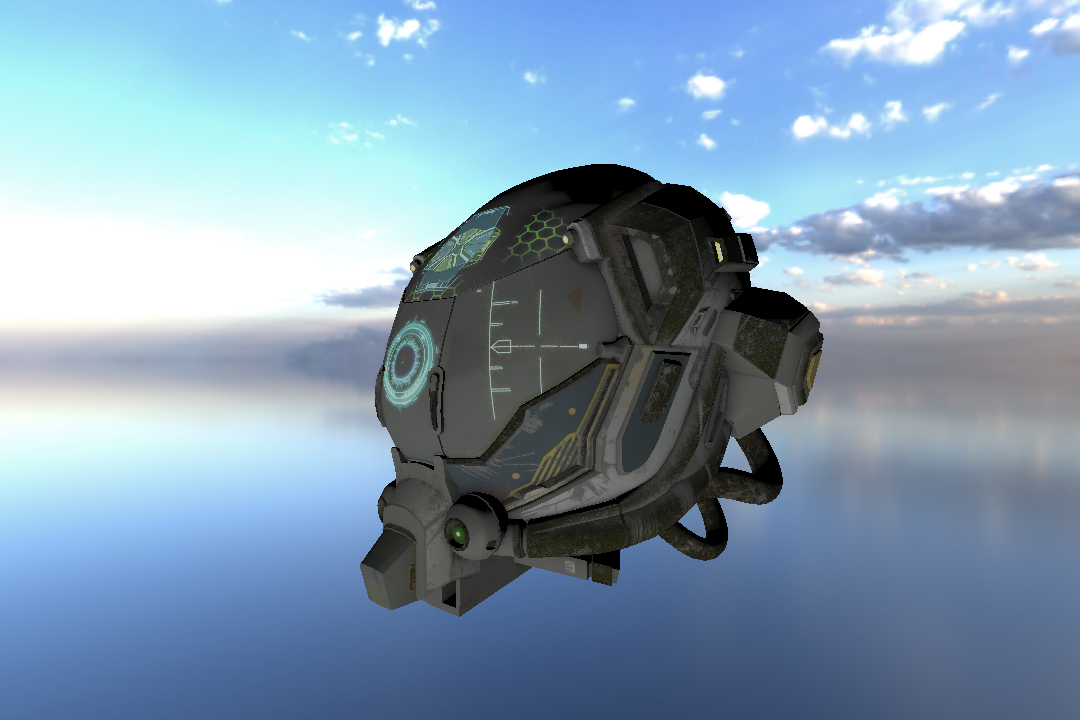
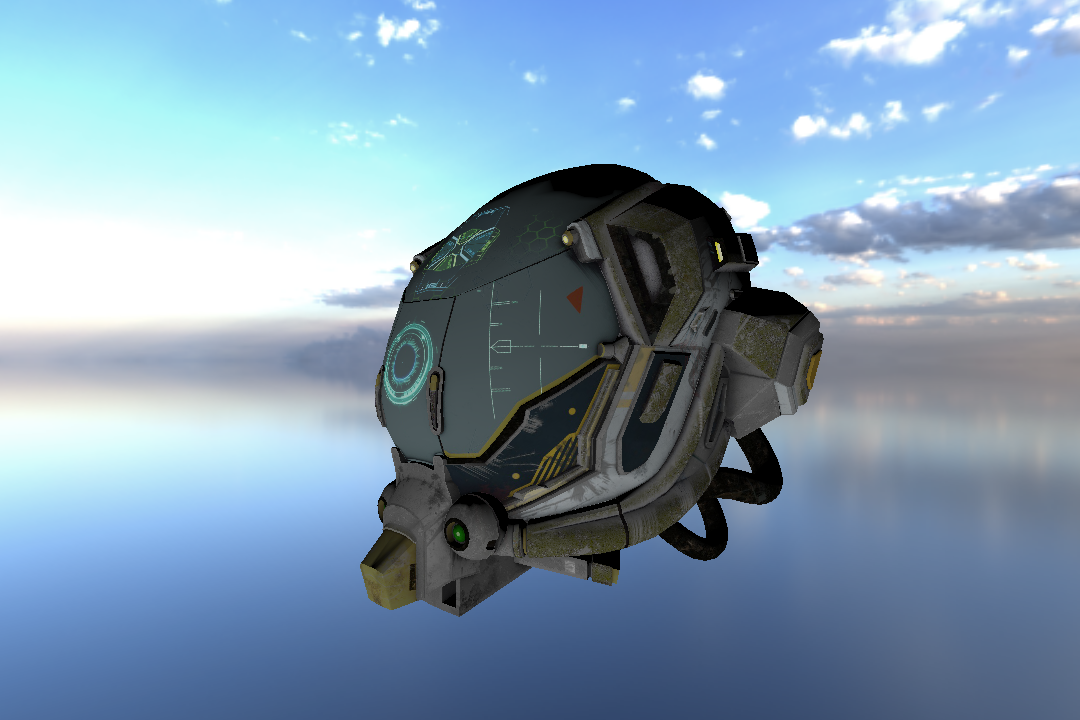
albedo and emission: sRGB -> lineal

diff --git a/README.md b/README.md
@@ -1,9 +1,23 @@
 # Graphite
-Path tracing engine written in CUDA
+Ray tracing and path tracing API written in CUDA from scratch for research purposes.
+
+> [!IMPORTANT] 
+This project is still under development
 
 ## Features
-* Linear algebra library.
-* Fixed graphics pipeline.
-* Pure CUDA code.
+* **Linear algebra library:** for both, host and device.
+* **CUDA Path tracing API:** vertex buffer, index buffer, frame buffer, textures...
+* **Fixed graphics pipeline:** CUDA Kernels for Vertex and Fragment shaders.
+* **Physically based rendering (PBR):** Metallic-Roughness workflow.
+* **Load 3D models:** render glTF 2.0 3D models.
+* **High dynamic range (HDR):** Reinhard tone mapping.
+* **360 HDRI skybox.**
+* **Gamma correction.**
 
+# Dependencies
+* **stb_image:** for reading and writing images.
+* **tinygltf:** for reading glTF 2.0 models.
+* **CUDA Toolkit:** nvcc for compiling CUDA code.
+
+# Output
 ![](img/output.png)
